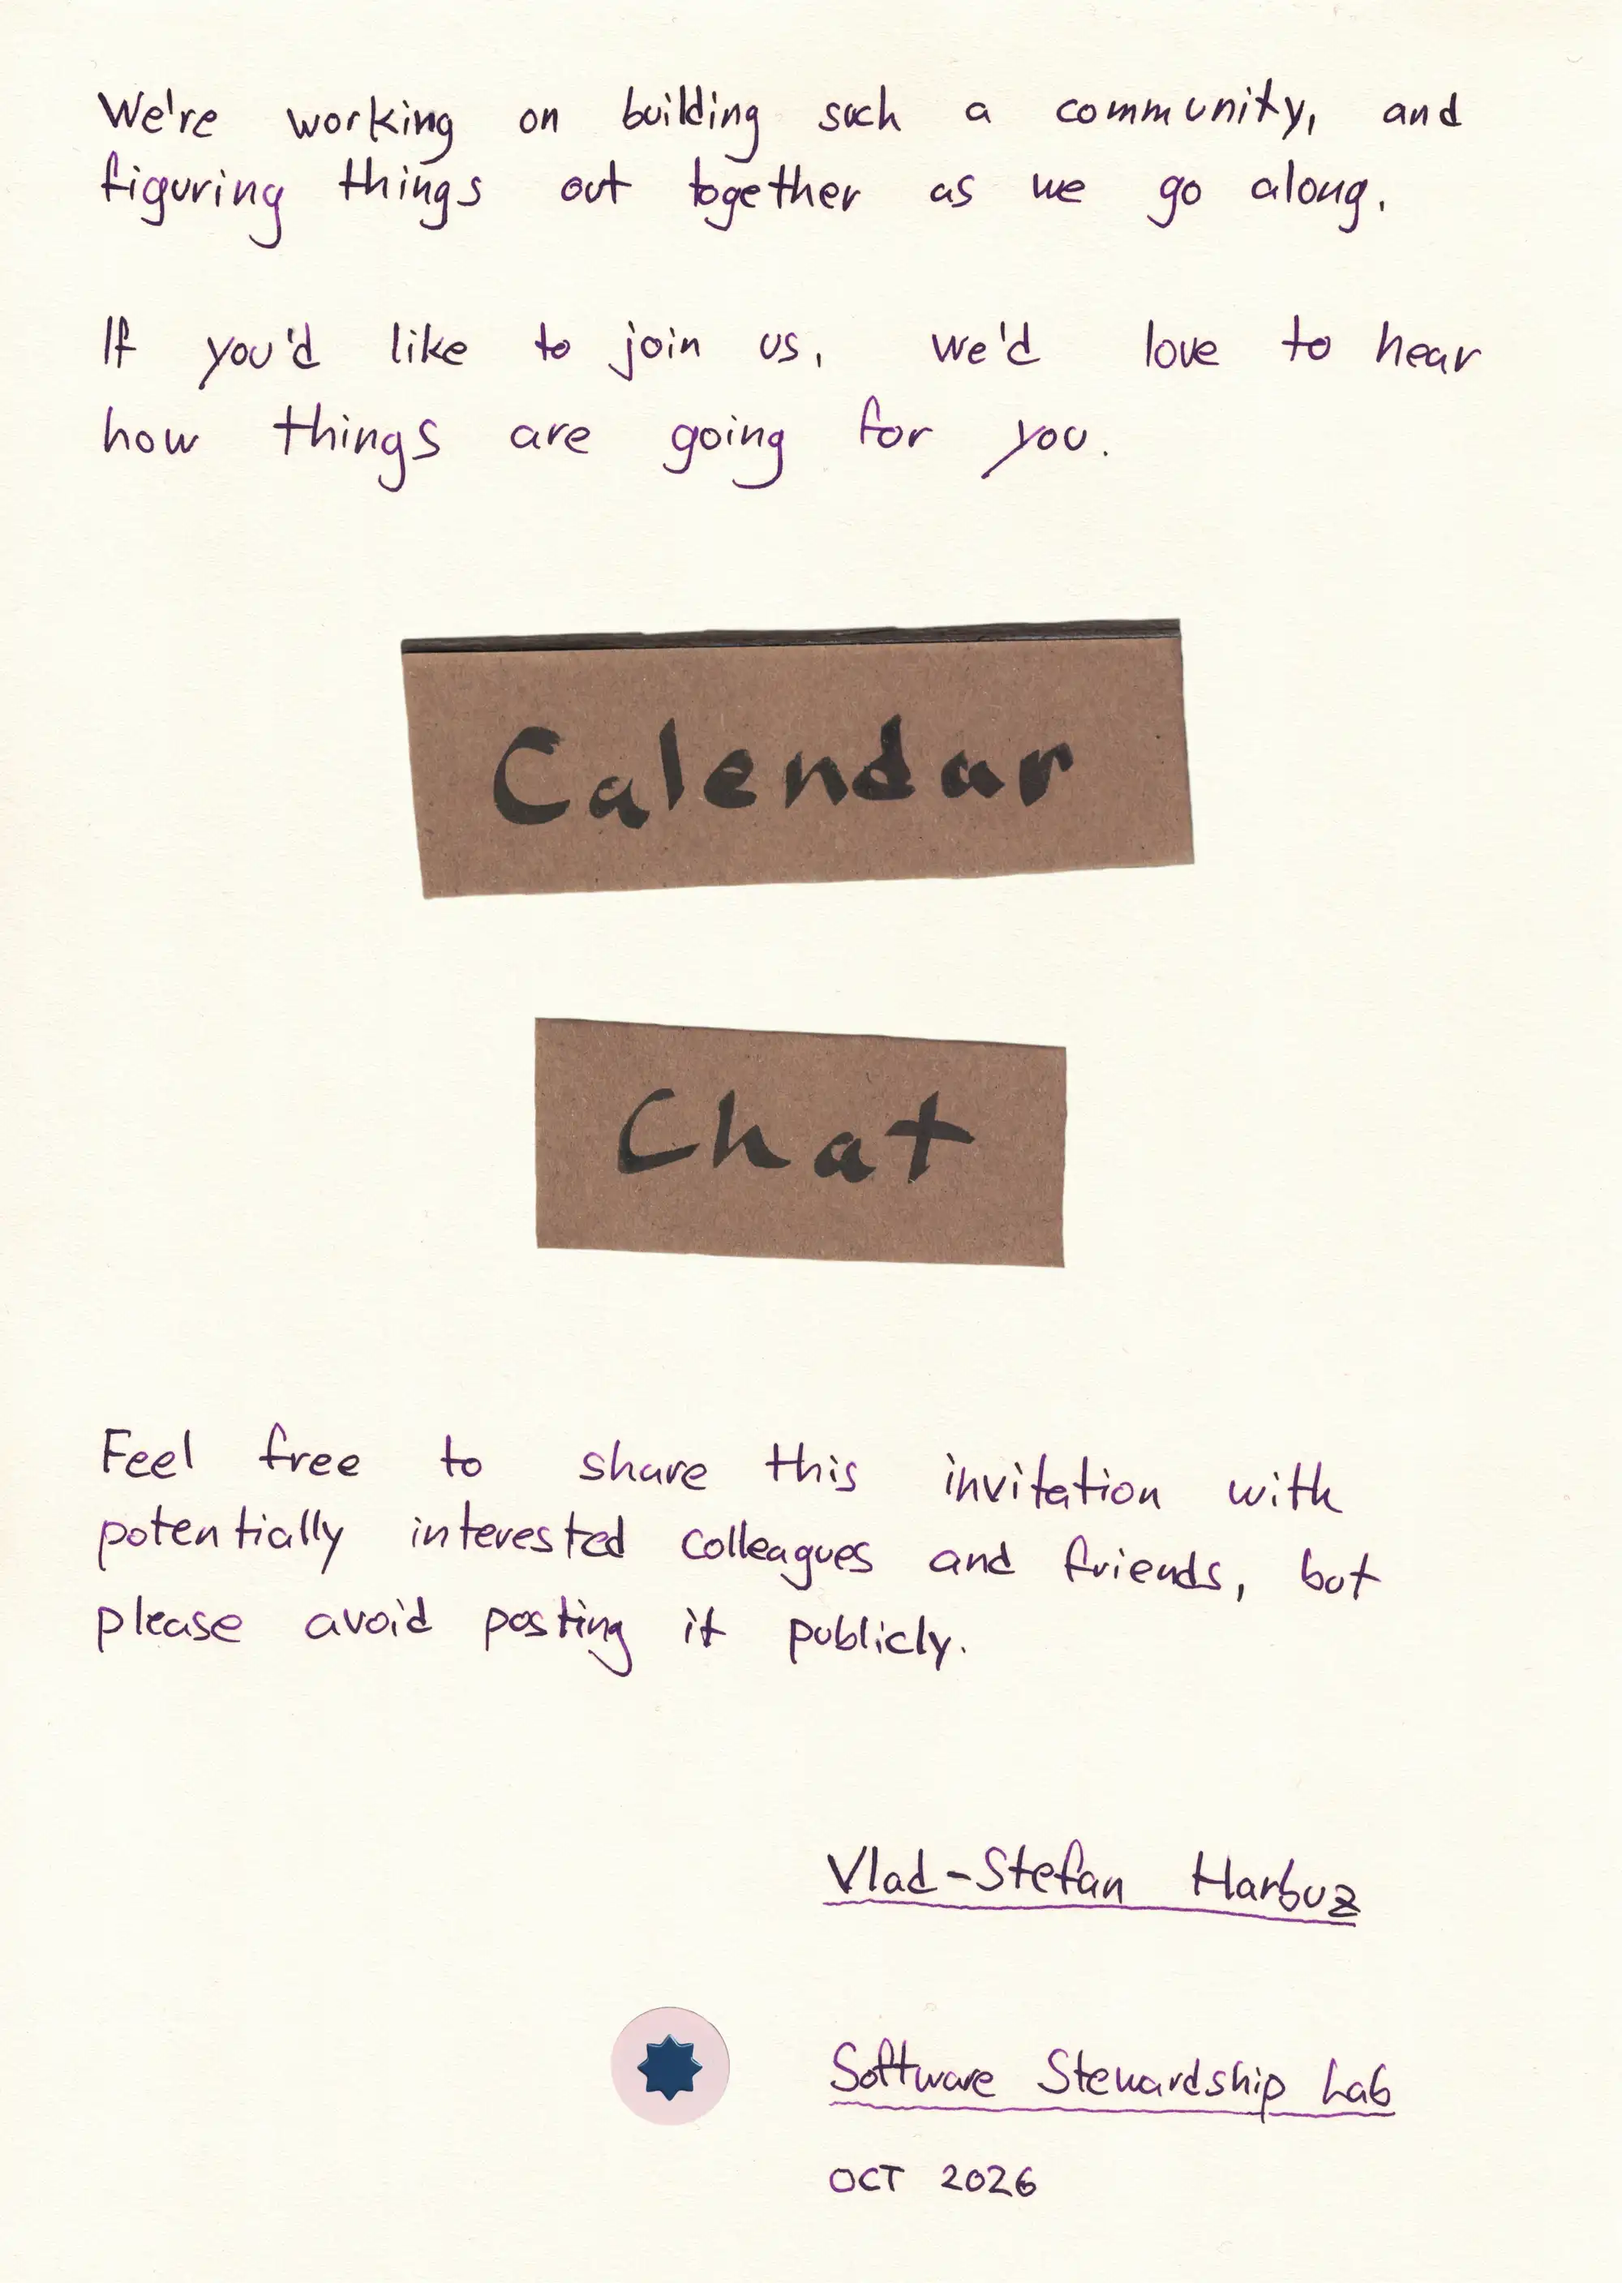
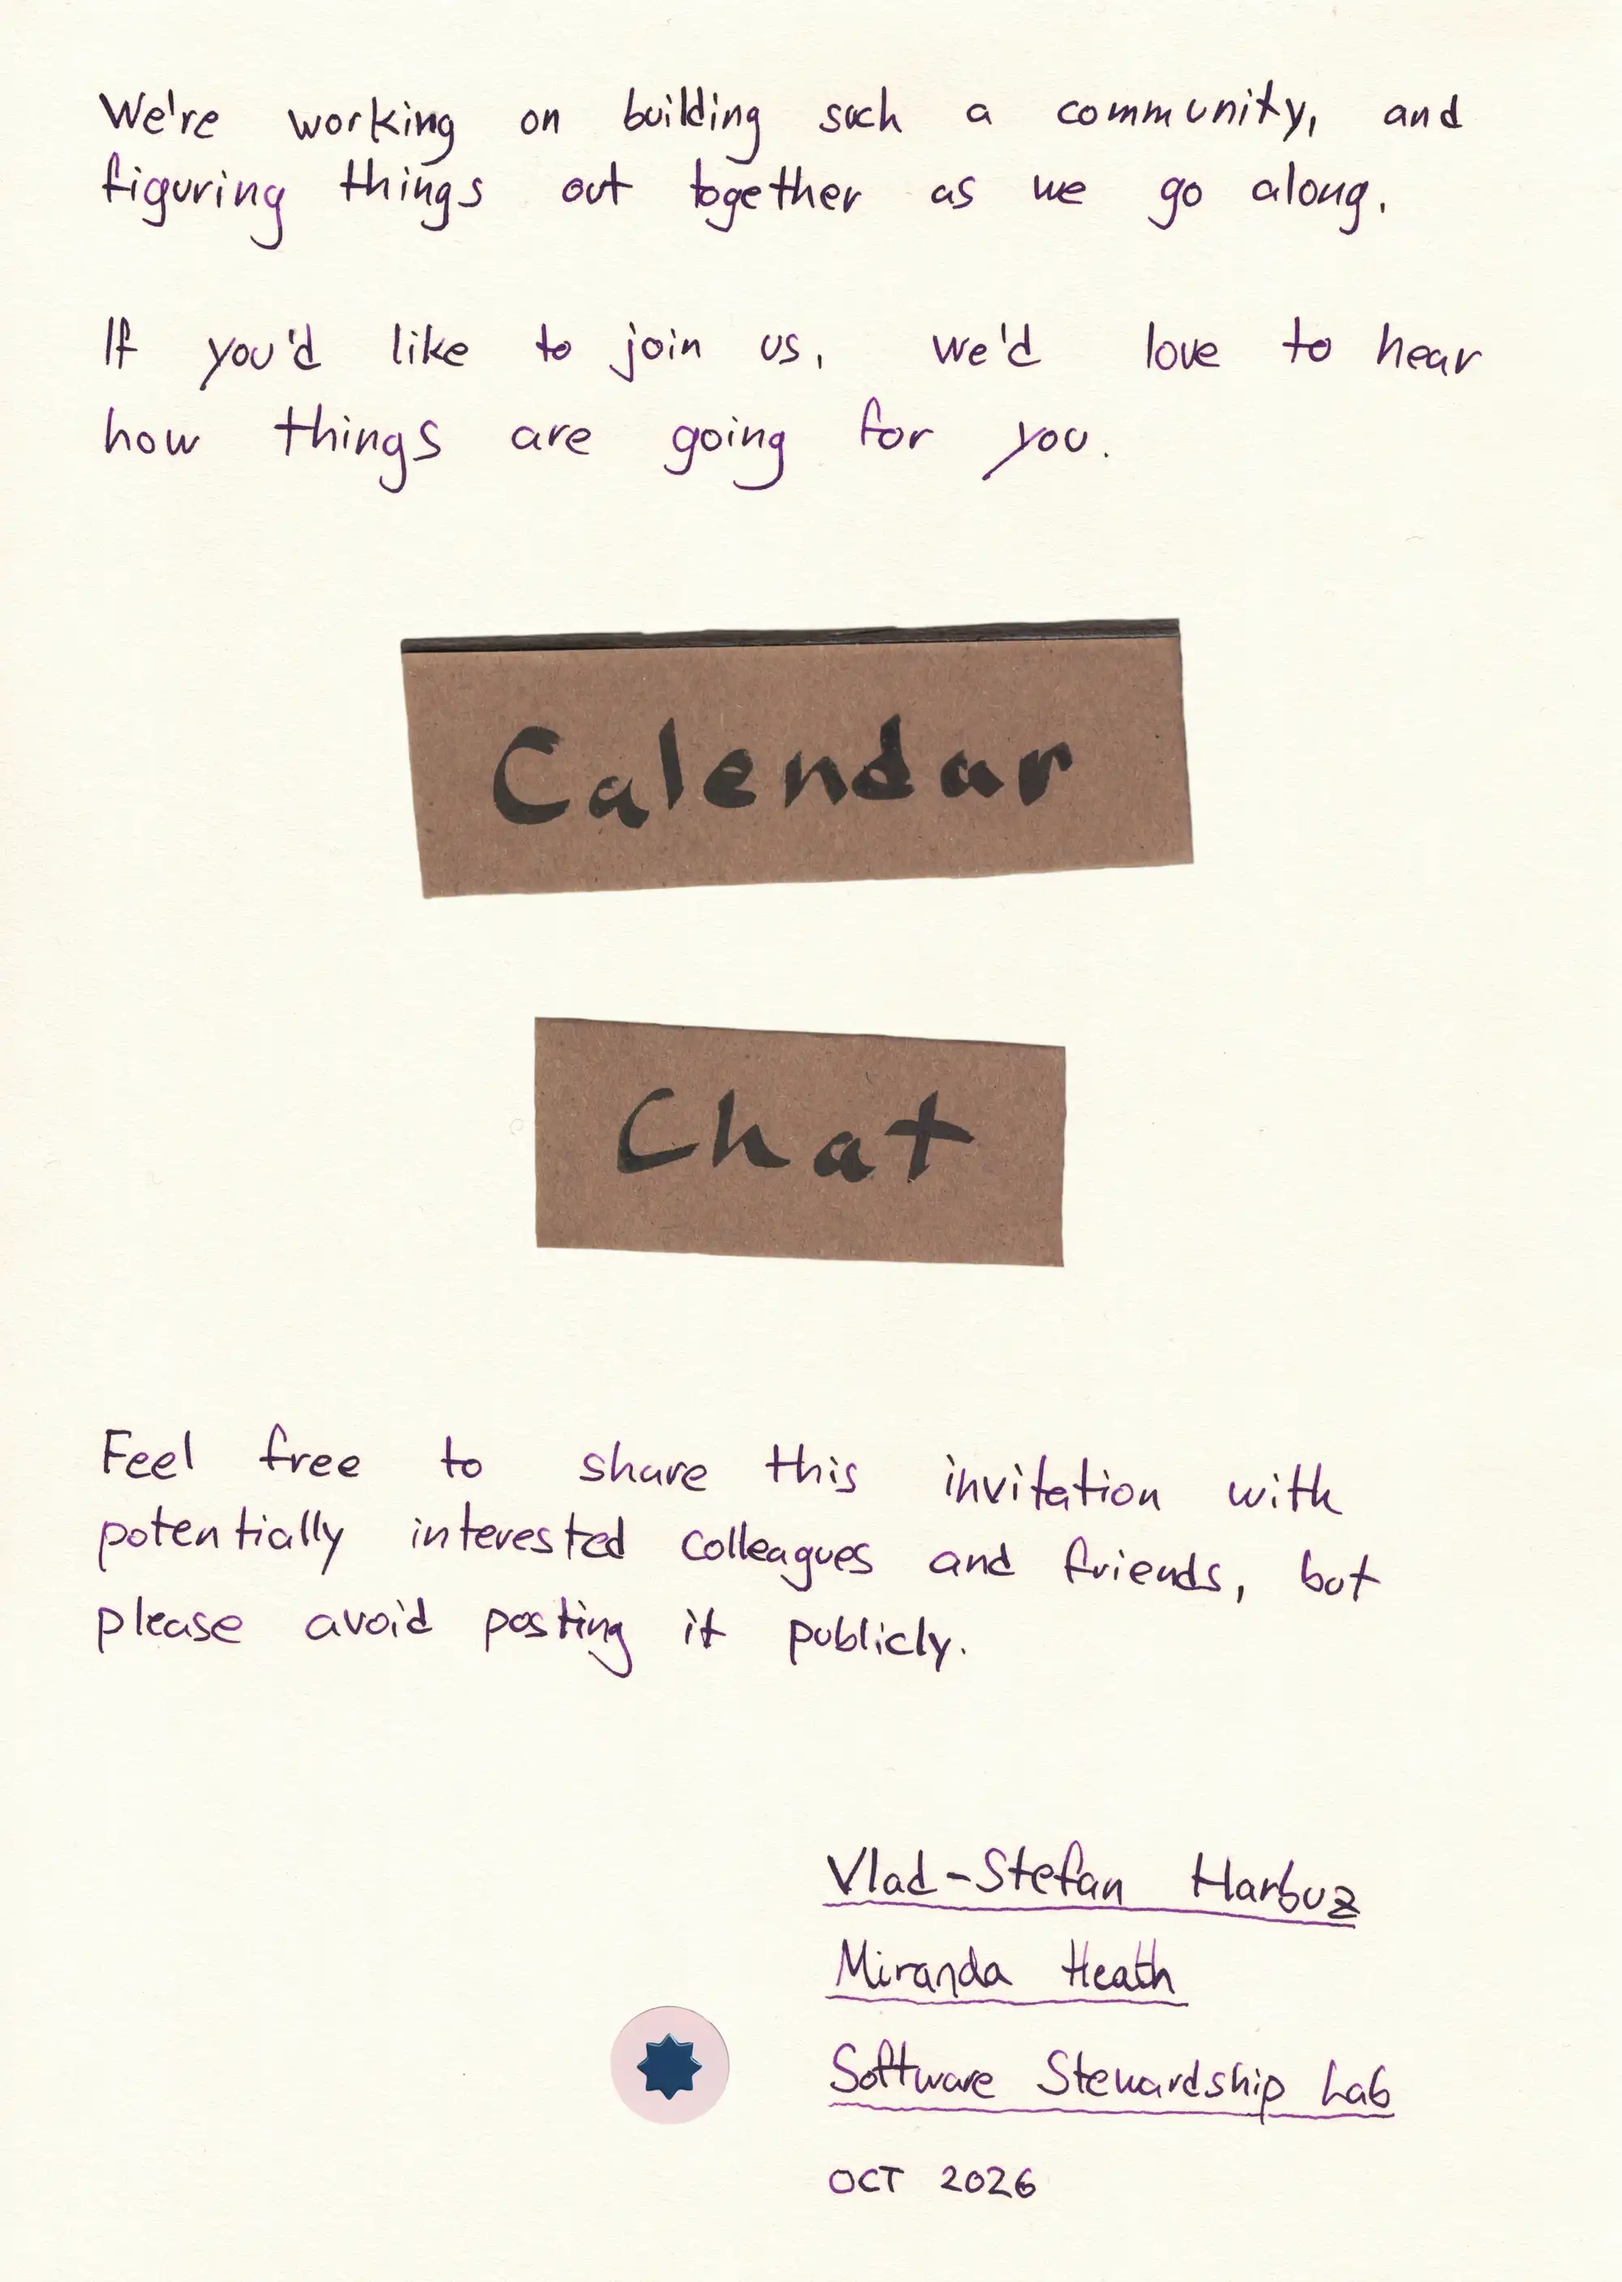
reflections: add Miranda

diff --git a/app/pages/reflections.vue b/app/pages/reflections.vue
@@ -25,7 +25,7 @@ definePageMeta({
       >Join Calendar</a>
       <a href="https://discord.gg/bw4PzpbuAf" target="_blank" class="link-area link-area--chat">Join Chat</a>
       <a href="https://vlad.website" target="_blank" class="link-area link-area--vlad">Vlad-Stefan Harbuz</a>
-      <!-- <a href="https://mirandaheath.website" target="_blank" class="link-area link-area--miranda">Miranda Heath</a> -->
+      <a href="https://mirandaheath.website" target="_blank" class="link-area link-area--miranda">Miranda Heath</a>
       <a href="https://stewardshiplab.org" target="_blank" class="link-area link-area--lab">Software Stewardship Lab</a>
       <a href="https://stewardshiplab.org" target="_blank" class="link-area link-area--star">Software Stewardship Lab</a>
       <img src="/images/reflections-p2.webp" alt="The second page of the letter">
